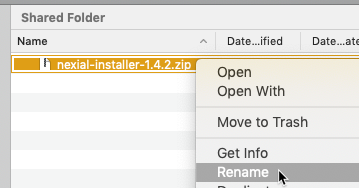
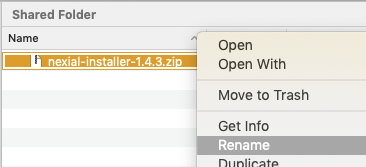
- add more details about iTerm - minor style update to support in-page tabs

Changed region(s): [[0.0, 0.0, 1.0, 1.0], [0.5209, 0.7186, 1.0, 1.0]]

diff --git a/commands/web/_metricsapi.html b/commands/web/_metricsapi.html
@@ -1,24 +1,3 @@
-<style>
-  .tabs .tab-links li {
-    margin-bottom: 0 !important;
-  }
-
-  .tabs .tab-links .active {
-    display:       block;
-    border-bottom: 5px solid #000;
-    margin-bottom: -5px !important;
-  }
-
-  .metrics {
-  }
-
-  .metrics li {
-    margin-bottom: 5px !important;
-  }
-
-</style>
-
-
 <div class="tabs metrics">
   <ul class="tab-links tabs-collapsed">
     <li><a href="#tab_navigation" id="tab_title_navigation">Navigation Timing</a></li>

diff --git a/assets/css/style.scss b/assets/css/style.scss
@@ -664,10 +664,15 @@ pre.explain {
 }
 
 .tabs .tab-links li {
-  margin:     0 10px;
+  margin:     0 10px !important;
   padding:    0 !important;
   float:      left;
   list-style: none;
+}
+
+.tabs .tab-links .active {
+  border-bottom: 5px solid #000;
+  margin-bottom: -5px !important;
 }
 
 .tabs .tab-links a {

diff --git a/userguide/InstallingNexial.md b/userguide/InstallingNexial.md
@@ -118,7 +118,8 @@ your system, please follow the section above.
                 </li>
                 <li>
                     Click the following link to begin downloading the Nexial installer:
-                    <a href="https://github.com/nexiality/nexial-installer/releases/download/nexial-installer-v1.4.2/nexial-installer-1.4.2.zip" class="external-link" target="_nexial_link">Nexial Installer</a>.
+                    <a href="https://github.com/nexiality/nexial-installer/releases/download/nexial-installer-v1.4.3/nexial-installer-1.4.3.zip" 
+                    class="external-link" target="_nexial_link">Nexial Installer</a>.
                 </li>            
                 <li>
                     Next, locate the downloaded zip file in your Downloads folder.
@@ -166,32 +167,41 @@ your system, please follow the section above.
                 </li>
                 <li>
                     Click the following link to begin downloading the Nexial installer:
-                    <a href="https://github.com/nexiality/nexial-installer/releases/download/nexial-installer-v1.4.2/nexial-installer-1.4.2.zip" class="external-link" target="_nexial_link">Nexial Installer</a><br/>
+                    <a href="https://github.com/nexiality/nexial-installer/releases/download/nexial-installer-v1.4.3/nexial-installer-1.4.3.zip" 
+                    class="external-link" target="_nexial_link">Nexial Installer</a><br/>
                     <br/>
                     By default, it will be downloaded to the <code>Downloads</code> directory. Move this file to the 
-                    newly created <code>projects</code> directory:<br/>
+                    newly created <code>projects</code> directory (`~/projects`):<br/>
                     <img src="image/InstallingNexial_04.mac.png"/>
                 </li>            
                 <li>
                     Rename the Nexial Installer zip by removing its version number from the zip file. That way, it will
-                    unzip to a directory named as <code>nexial-installer</code> (instead of <code>nexial-installer-1.4.2</code>):<br/>
+                    unzip to a directory named as <code>nexial-installer</code> (instead of <code>nexial-installer-1.4.3</code>):<br/>
                     <img src="image/InstallingNexial_05.mac.png"/><br/>
                     <img src="image/InstallingNexial_06.mac.png"/><br/>
                 </li>
                 <li>
                     Double-click on <code>nexial-installer.zip</code> to start unzipping this file. This will unzip 
                     <code>nexial-installer.zip</code> to a directory named as <code>nexial-installer</code>:<br/>
-                    <img src="image/InstallingNexial_07.mac.png"/>
-                    <br/>
+                    <img src="image/InstallingNexial_07.mac.png"/><br/>
                     Note that the unzip directory contains a <code>bin</code> and a <code>lib</code> directory.
                 </li>
                 <li>
-                    Right-click on <code>nexial-installer/bin/installer-latest.sh</code> (<b>NOT 
-                    <code>installer-latest.cmd</code></b>). Choose either <code>Terminal.app</code> or 
-                    <code>iTerm.app</code>:<br/>
-                    <img src="image/InstallingNexial_08.mac.png"/>
-					<br/><b>a. If the terminal app does not show up on the list:</b> click "other" then in the drop down menu labeled "Enable:" select "All Applications". From here, navigate through
-					the Applications folder then enter the Utilities folder and select the Terminal application.
+                    Expand `nexial-installer` and then expand `bin` directory. Right-click on 
+                    <b><code>installer-latest.sh</code></b> (NOT <code>installer-latest.cmd</code>). Choose either 
+                    <code>Terminal.app</code> or <code>iTerm.app</code>:<br/>
+                    <img src="image/InstallingNexial_08.mac.png"/><br/>
+                    <ol style="list-style: lower-roman">
+                    <li><b>If none of the terminal app shows up on the list:</b> click "other" then in the drop down 
+                    menu labeled "Enable:" select "All Applications". From here, navigate through the Applications 
+                    folder then enter the Utilities folder and select the Terminal application.
+                    </li>
+                    <li><b>iTerm.app</b>: iTerm is an excellent terminal replacement for MacOSX's default Terminal.app. 
+                    This is optional to install or run Nexial. To install iTerm, please download it from
+                    <a href="https://www.iterm2.com/downloads.html" class="external-link" target="_nexial_external">
+                    iTerm2 download page</a>.
+                    </li>
+                    </ol>
                 </li>
                 <li>
                     Nexial installation will commence:<br/>
